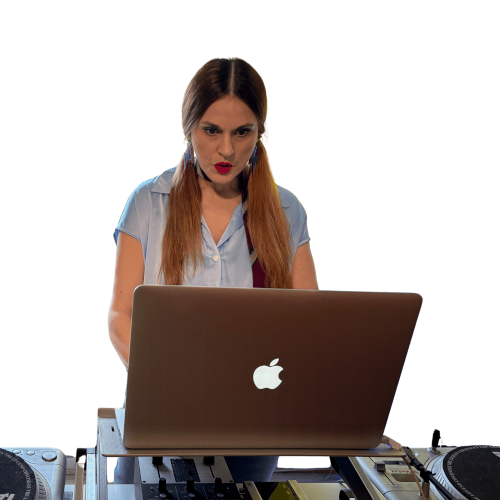
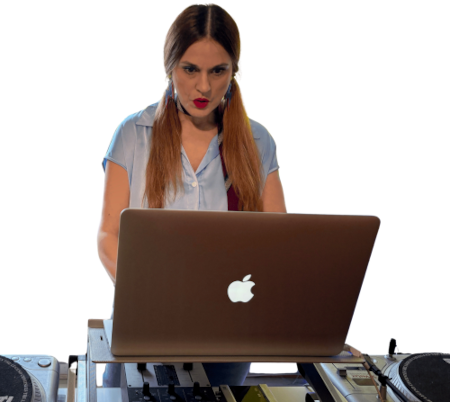
right margin added

Changed region(s): [[0.0, 0.0, 1.0, 1.0], [0.4978, 0.6866, 0.56, 0.7761], [0.0, 0.9851, 0.0311, 1.0]]

diff --git a/docs/index.html b/docs/index.html
@@ -168,7 +168,7 @@
         <!--Contact Section-->
         <section id="contact" class="contact">
             <div class="contact">
-                <h2 class="contact-heading">Get in Touch</h2>
+                <h2 class="contact-heading">Get in touch</h2>
                 <a href="mailto:lolisolera101@gmail.com" class="contact-button">Contact</a>
             </div>
         </section>

diff --git a/docs/styles.scss b/docs/styles.scss
@@ -10,7 +10,7 @@ $color-background: #fff;
 $color-highlight: #cfcfcf;
 
 * {
-    margin: 0;
+    margin-right: 10px;
     padding: 0;
     box-sizing: border-box;
 }
@@ -145,6 +145,7 @@ body {
 
     &__image {
         margin-bottom: 5rem;
+      
 
     }
 

diff --git a/docs/styles.css b/docs/styles.css
@@ -1,5 +1,5 @@
 * {
-  margin: 0;
+  margin-right: 10px;
   padding: 0;
   box-sizing: border-box;
 }
